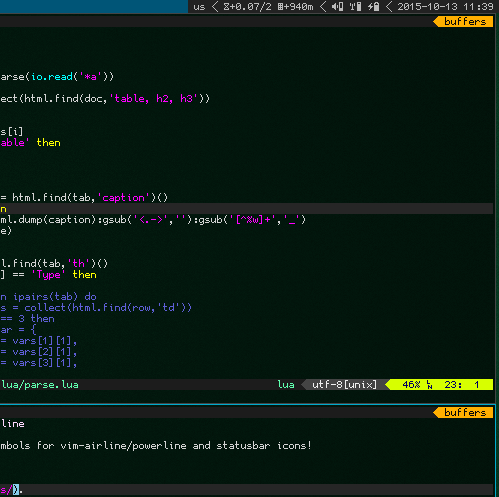
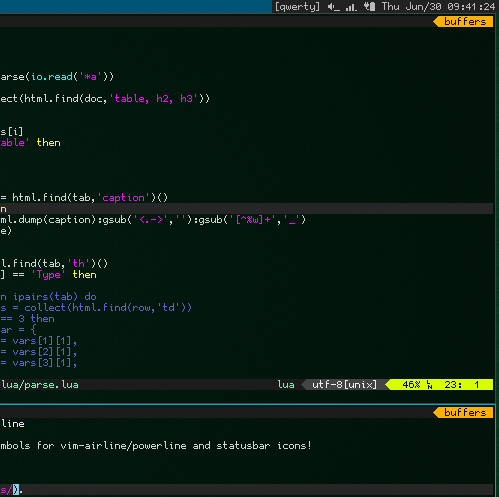
alt wifi bars

Changed region(s): [[0.3607, 0.0, 0.992, 0.0302]]

diff --git a/README.md b/README.md
@@ -5,7 +5,6 @@ GohuFont with symbols for vim-airline/powerline and statusbar icons!
 It looks like this:
 
   ![sample-small](samples/sample-small.png)
-  ![sample-large](samples/2015-10-13-113944_1280x800_scrot.png)
 
 ---
 
